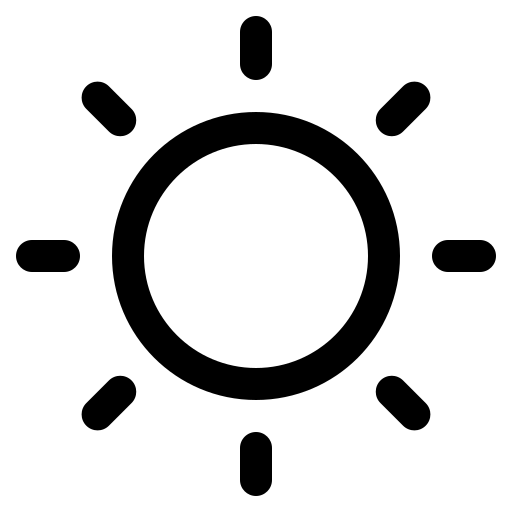
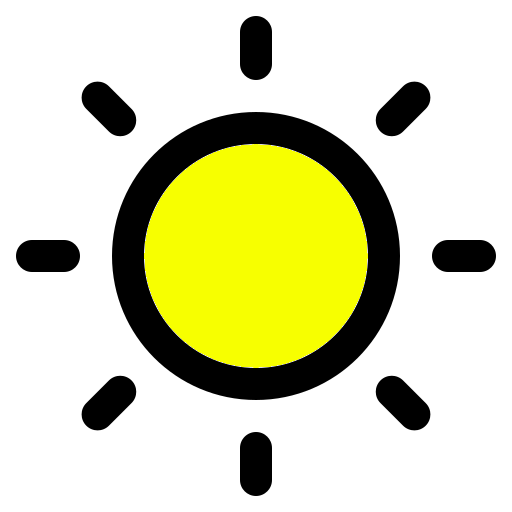
completado modo dia y noche

Changed region(s): [[0.2812, 0.2812, 0.7188, 0.7188]]

diff --git a/css/style.css b/css/style.css
@@ -1,26 +1,35 @@
 /* IMPORTAR FUENTES */
 @import url('https://fonts.googleapis.com/css2?family=Exo&display=swap');
 
-/* FORMATO INICIAL */
-*{
-    padding: 0;
-    margin: 0;
-}
-#container{
-    width: 100;
-    height: 100vh;
-    display: flex;
-    flex-direction: column;
-    align-items: center;
-    justify-content: center;
-    background-color: rgb(27, 27, 27);
-}
-
 /* CONTROL DE COLORES */
 .modo-dia{
+    --fondo-container: rgb(206, 206, 206);
 
+    --fondo-nav: rgb(0, 204, 255);
+    --fuente-nav: rgb(0, 0, 0);
+    --fuente-seleccionada-nav: rgb(0, 0, 0);
+    --sombra-nav: rgb(31, 31, 31);
+    --fondo-boton-activo-nav: rgb(255, 255, 255);
+
+    --fuente-reloj: rgb(0, 0, 0);
+
+    --fuente-botones: black;
+    --fondo-boton-hover: rgb(0, 204, 255);
+    --brillo-boton-hover: rgb(86, 221, 255);
+    --fuente-boton-hover: black;
+
+    --sombra-temporizador: black;
+    --fondo-temporizador: rgb(172, 172, 172);
+    --fondo-intro-temporizador: rgb(255, 255, 255);
+    --fondo-selector: rgb(201, 200, 200);
+    --fuente-selector: rgb(0, 0, 0);
+    --fuente-botones-selector: rgb(0, 0, 0);
+    --fondo-botones-selector: rgb(0, 204, 255);
+    --borde-selector: rgb(201, 200, 200);
 }
 .modo-noche{
+    --fondo-container: rgb(27, 27, 27);
+    
     --fondo-nav: rgb(56, 56, 56);
     --fuente-nav: rgb(207, 207, 207);
     --fuente-seleccionada-nav: rgb(255, 170, 0);
@@ -43,6 +52,24 @@
     --fondo-botones-selector: rgb(255, 170, 0);
     --borde-selector: rgb(0, 0, 0);
 }
+
+/* FORMATO INICIAL */
+*{
+    padding: 0;
+    margin: 0;
+}
+#container{
+    width: 100;
+    height: 100vh;
+    display: flex;
+    flex-direction: column;
+    align-items: center;
+    justify-content: center;
+    background-color: var(--fondo-container);
+    transition: 0.5s;
+}
+
+
 
 /* BARRA DE NAVEGACION */
 nav{
@@ -75,12 +102,6 @@ nav div{
     color: var(--fuente-seleccionada-nav);
     cursor: default;
     border-radius: 2em;
-}
-#modo-color{
-    position: fixed;
-    right: 0;
-    bottom: 0;
-    justify-self: flex-end;
 }
 
 /* CRONOMETRO */
@@ -264,4 +285,50 @@ nav div{
 }
 .close{
     background-color: red;
+}
+
+/* CONTROL MODO COLORES */
+#modo-color{
+    position: fixed;
+    right: 0;
+    bottom: 0;
+    display: flex;
+    flex-direction: row;
+    justify-content: center;
+    align-items: center;
+    cursor: default;
+    margin: 0;
+}
+#modo-color div{
+    background-color: white;
+    border-radius: 100em;
+    display: flex;
+    flex-direction: row;
+    justify-content: center;
+    align-items: center;
+    padding: 0.25em;
+    margin: 0.2em;
+}
+#modo-color img{
+    width: 1.5em;
+    cursor: pointer;
+}
+#modo-color #selector-modo{
+    background-color: rgba(255, 255, 255, 0.452);
+    width: 2.5em;
+    height: 0.5em;
+    position: relative;
+}
+#selector-modo #bola-selector{
+    background-color: rgb(4, 0, 255);
+    border-radius: 50em;
+    width: 0.5em;
+    height: 0.5em;
+    position: absolute;
+}
+.lado-noche{
+    right: 0%;    
+}
+.lado-dia{
+    left: 0%;
 }

diff --git a/js/script.js b/js/script.js
@@ -252,16 +252,33 @@ class timer{
 }
 
 class nav{
+    // CAMBIA PANTALLA A TEMPORIZADOR
     static changeToTimer(){
         chrono.style.display = "none";
         tempo.style.display = "flex";
         botonTemporizador.classList.add("activo");
         botonCronometro.classList.remove("activo");
     }
+    // CAMBIA PANTALLA A CRONOMETROR
     static changeToCrono(){
         tempo.style.display = "none";
         chrono.style.display = "flex";
         botonCronometro.classList.add("activo");
         botonTemporizador.classList.remove("activo");
     }
+
+    static modoNoche(){
+        document.getElementById("bola-selector").classList.add("lado-noche");
+        document.getElementById("bola-selector").classList.remove("lado-dia");
+        document.getElementById("container").classList.remove("modo-dia");
+        document.getElementById("container").classList.add("modo-noche");
+    }
+
+    static modoDia(){
+        document.getElementById("bola-selector").classList.add("lado-dia");
+        document.getElementById("bola-selector").classList.remove("lado-noche");
+        document.getElementById("container").classList.remove("modo-noche");
+        document.getElementById("container").classList.add("modo-dia");
+    }
+
 }

diff --git a/index.html b/index.html
@@ -13,7 +13,7 @@
         <nav>
             <div id="boton-cronometro"class="activo" onclick="nav.changeToCrono()">Cronometro</div>
             <div id="boton-temporizador" onclick="nav.changeToTimer()">Temporizador</div>
-            <div id="modo-color">MODO DÍA -- MODO NOCHE</div>
+            
         </nav>
         <div id="crono">
             <!-- CRONOMETRO -->
@@ -228,6 +228,13 @@
                     <div class="close" onclick="timer.closeEdit()">CLOSE</div>
                 </div>
             </div>
+        </div>
+        <div id="modo-color">
+            <div onclick="nav.modoDia()"><img src="./img/sol.png" alt="Sol"></div>
+            <div id="selector-modo">
+                <div id="bola-selector" class="lado-noche"></div>
+            </div>
+            <div onclick="nav.modoNoche()"><img src="./img/luna.png" alt="Luna"></div>
         </div>
     </div>
     <script src="./js/script.js"></script>
